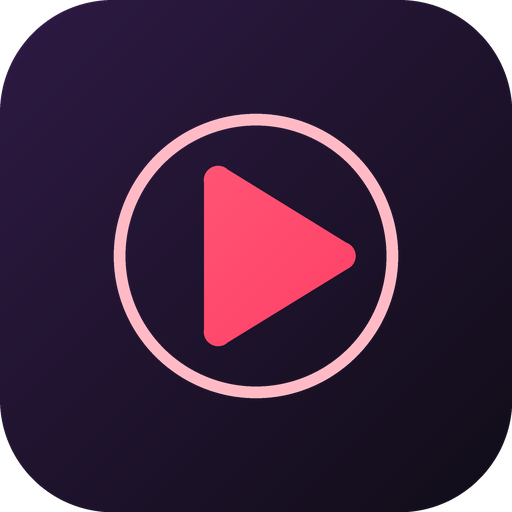
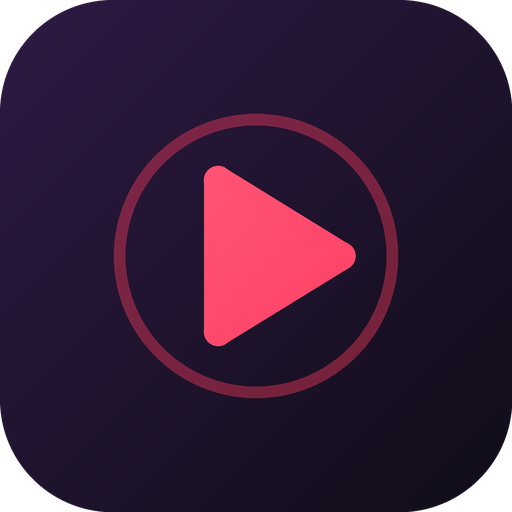
Add single stream links and put My playlists first
A bare .m3u8 link becomes a one-channel entry named after its address. My
playlists is now the first row of the IPTV tab. The Home header uses the new
logo, with FMHY in white and Play in the accent colour, and the icon ring is the
same in the launcher, the app and the docs.

Changed region(s): [[0.2188, 0.2188, 0.7812, 0.7812]]

diff --git a/src/me/champdev/weblock/Iptv.java b/src/me/champdev/weblock/Iptv.java
@@ -328,7 +328,7 @@ final class Iptv {
             String links = special("deeplinks");
             if (!links.isEmpty() && saveText(links, "deeplinks.json")) Sites.reloadDeeplinks();
             for (int i = 0; i < adultSources().size(); i++) save(adultSources().get(i)[1], "iptv-adult" + i + ".m3u");
-            for (String url : mine()) save(url, mineFile(url));
+            for (String url : mine()) fetchMine(url);
             synchronized (Iptv.class) { cache = null; }
             return ok;
         } finally {
@@ -361,13 +361,43 @@ final class Iptv {
         return false;
     }
 
-    /** Downloads and adds a playlist; null when it worked, else what went wrong. Call off the main thread. */
+    /**
+     * Downloads one of your playlists. A bare stream link (an HLS playlist, not a list of channels) becomes a playlist of one channel,
+     * named after its address, so a single .m3u8 can be added the same way.
+     */
+    static boolean fetchMine(String url) {
+        try {
+            String text = download(url);
+            if (!text.trim().startsWith("#EXTM3U")) return false;
+            if (parse(text, false).isEmpty() && text.contains("#EXT-X-"))
+                text = "#EXTM3U\n#EXTINF:-1 group-title=\"My streams\"," + streamName(url) + "\n" + url + "\n";
+            try (FileOutputStream out = new FileOutputStream(file(mineFile(url)))) { out.write(text.getBytes(StandardCharsets.UTF_8)); }
+            return true;
+        } catch (IOException e) {
+            return false;
+        }
+    }
+
+    /** "cdn.example.com · news" for https://cdn.example.com/live/news/index.m3u8: the host plus the last part of the path that says something. */
+    static String streamName(String url) {
+        Uri u = Uri.parse(url);
+        String host = String.valueOf(u.getHost()).replaceFirst("^www\\.", ""), pick = "";
+        List<String> seg = u.getPathSegments();
+        for (int i = seg.size() - 1; i >= 0 && pick.isEmpty(); i--) {
+            String part = seg.get(i).replaceAll("(?i)\\.(m3u8?|mpd|ts)$", "");
+            if (!part.matches("(?i)index|master|playlist|manifest|stream|live|chunklist.*|\\d+")) pick = part;
+        }
+        String name = pick.isEmpty() ? host : host + " \u00B7 " + pick;
+        return name.codePoints().anyMatch(Character::isLetter) ? name : "Stream " + name;   // a name needs a letter, an IP address has none
+    }
+
+    /** Downloads and adds a playlist or a single stream link; null when it worked, else what went wrong. Call off the main thread. */
     static String addPlaylist(String raw) {
         String url = raw.trim();
         if (!url.matches("(?i)https?://.+")) url = "https://" + url;
         List<String> now = mine();
         if (now.contains(url)) return "Already added";
-        if (!save(url, mineFile(url))) return "Not an M3U playlist, or the link can't be reached";
+        if (!fetchMine(url)) return "Not a playlist or stream link, or it can't be reached";
         int n = parse(read(mineFile(url)), false).size();
         if (n == 0) { file(mineFile(url)).delete(); return "No channels in that playlist"; }
         now.add(url);
@@ -492,7 +522,7 @@ final class Iptv {
         Map<String, List<Channel>> m = new LinkedHashMap<>();
         for (Channel c : all()) {
             String[] keys = by.equals("cat") ? c.cats : new String[]{c.country};
-            for (String k : keys) if (!k.isEmpty()) m.computeIfAbsent(k, x -> new ArrayList<>()).add(c);
+            for (String k : keys) if (!k.isEmpty() && !(by.equals("cat") && k.equals(MINE))) m.computeIfAbsent(k, x -> new ArrayList<>()).add(c);
         }
         List<Map.Entry<String, List<Channel>>> es = new ArrayList<>(m.entrySet());
         if (by.equals("cat")) es.sort((a, b) -> a.getKey().compareToIgnoreCase(b.getKey()));
@@ -611,6 +641,11 @@ final class Iptv {
         switch (type) {
             case "fav": return favorites();
             case "working": return working();
+            case "mine": {
+                List<Channel> own = new ArrayList<>();
+                for (Channel c : all()) if (c.cats[0].equals(MINE)) own.add(c);
+                return own;
+            }
             case "adult": return bySource(adult());
             case "cat": case "country": {
                 List<Channel> g = groups(type).get(key);

diff --git a/src/me/champdev/weblock/Home.java b/src/me/champdev/weblock/Home.java
@@ -492,6 +492,22 @@ public class Home extends Activity {
         if (!status.isEmpty()) col.addView(note(status));
         else if (App.tv && !Iptv.history().isEmpty()) col.addView(note("Hold OK on a channel to remove it or add it to favorites"));
         int cols = App.tv ? 6 : 3;
+        // What you added yourself (playlists and single stream links) comes first
+        List<Iptv.Channel> own = Iptv.list("mine", "");
+        if (!own.isEmpty()) {
+            col.addView(heading("My playlists  \u00B7  " + own.size()));
+            LinearLayout mr = row();
+            for (Iptv.Channel c : own.subList(0, Math.min(14, own.size()))) mr.addView(channelCard(c, cols, "mine"));
+            if (own.size() > 14) {
+                TextView more = text("All  " + own.size() + "  \u203A", sp(17, 15), TEXT, true);
+                more.setGravity(Gravity.CENTER);
+                more.setLayoutParams(cardParams(squareDp(cols), squareDp(cols)));
+                more.setBackground(rounded(0xFF2A2236, dp(14)));
+                focusable(more, dp(14));
+                more.setOnClickListener(v -> openIptv("mine", "", "My playlists", false));
+                mr.addView(more);
+            }
+        }
         // Recently watched channels and stars, as rows like Continue watching on Home (movies stay on Home, channels stay here)
         List<Iptv.Channel> recent = Iptv.history();
         if (!recent.isEmpty()) {
@@ -676,7 +692,7 @@ public class Home extends Activity {
     /** Ask for an M3U link, download it, and show its channels under My playlists. */
     void addPlaylistDialog() {
         EditText in = WebActivity.field(this, "https://example.com/playlist.m3u", InputType.TYPE_CLASS_TEXT | InputType.TYPE_TEXT_VARIATION_URI);
-        new AlertDialog.Builder(this).setTitle("Add IPTV playlist").setMessage("A link to an M3U or M3U8 playlist").setView(WebActivity.box(this, in))
+        new AlertDialog.Builder(this).setTitle("Add a playlist or stream").setMessage("A playlist (M3U) or a single stream link (.m3u8)").setView(WebActivity.box(this, in))
             .setPositiveButton("Add", (d, w) -> {
                 String url = in.getText().toString().trim();
                 if (url.isEmpty()) return;
@@ -754,7 +770,7 @@ public class Home extends Activity {
         col.addView(settingRow("Extra source list", "More playlists and title links, from a text file you choose (it starts on the project's own list).", extrasValue, v -> extrasDialog()));
         extrasValue.setText(Iptv.extrasUrl().isEmpty() ? "None" : Iptv.extrasUrl().equals(Iptv.DEFAULT_EXTRAS) ? "Default" : "Custom");
         extrasValue.setTextColor(Iptv.extrasUrl().isEmpty() ? MUTED : GREEN);
-        col.addView(settingRow("Add IPTV playlist", "Paste a link to your own M3U playlist. Its channels show under My playlists.", null, v -> addPlaylistDialog()));
+        col.addView(settingRow("Add a playlist or stream", "Paste a playlist or a single stream link (.m3u8). It shows under My playlists.", null, v -> addPlaylistDialog()));
         for (String url : Iptv.mine()) {
             int n = Iptv.parse(Iptv.read(Iptv.mineFile(url)), false).size();
             col.addView(settingRow(url.replaceFirst("(?i)^https?://", ""), n + (n == 1 ? " channel" : " channels") + ". Press to remove.", null, v ->
@@ -874,10 +890,14 @@ public class Home extends Activity {
         LinearLayout top = new LinearLayout(this);
         top.setGravity(Gravity.CENTER_VERTICAL);
         ImageView logo = new ImageView(this);
-        logo.setImageResource(R.drawable.ic_play);
+        logo.setImageResource(R.drawable.ic_logo);
         logo.setScaleType(ImageView.ScaleType.CENTER_CROP);
         top.addView(logo, new LinearLayout.LayoutParams(u(44, 30), u(44, 30)));
         TextView name = text("FMHYPlay", sp(26, 20), TEXT, true);
+        // Written like the project banner: FMHY in white, Play in the accent red
+        android.text.SpannableString brand = new android.text.SpannableString("FMHYPlay");
+        brand.setSpan(new android.text.style.ForegroundColorSpan(ACCENT), 4, 8, 0);
+        name.setText(brand);
         name.setPadding(dp(4), 0, 0, 0);
         top.addView(name);
         h.addView(top);
